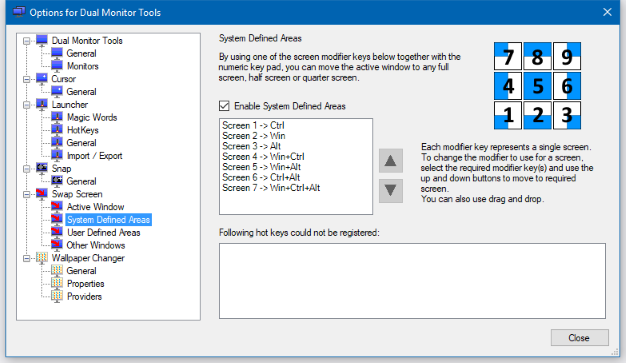
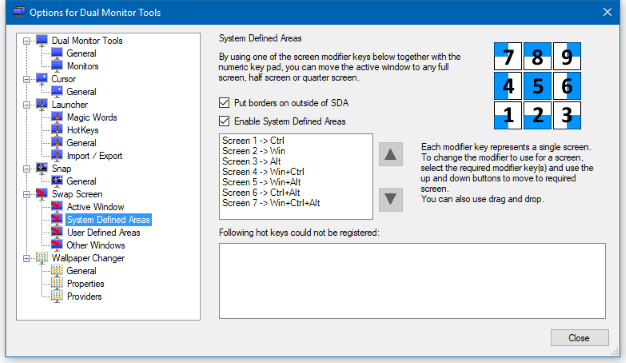
Changes ready for release of 2.7
git-svn-id: svn://svn.code.sf.net/p/dualmonitortool/code/trunk@470 fb2ba5e6-08d8-4d4c-bdde-3d14dca355d2

Changed region(s): [[0.3339, 0.2727, 0.6677, 0.6061]]

diff --git a/Web/dmt_wallpaperchanger.html b/Web/dmt_wallpaperchanger.html
@@ -79,16 +79,7 @@
 </ul>
 
 <p>If the image size is not the same size as the rectangle enclosing all of the selected screens, 
-then the 'Fit' combo box determines any scaling that need to be applied to the image.  The available options are:</p>
-<ul>
-	<li>Over stretch to cover the monitor(s). This is normally the best option.</li>
-	<li>Under stretch so as not to clip image.  This will result in bars being added.</li>
-	<li>Center image without any stretching.  
-	If your image is larger than the selected monitors, then the image will be clipped.
-	If The image is smaller than the selected monitors, then a border will be displayed around the image.</li>
-	<li>Stretch image to fill monitor(s) - ignores aspect ratio. 
-	This will stretch or shrink so that the whole image is displayed occupying the whole area of the selected monitors.</li>
-</ul>
+then the 'Fit' check boxes determines any scaling that need to be applied to the image.</p>
 
 <p>Initially no providers (of images) are set up, so click on the 'Providers' options to add/edit/delete providers.</p>
 
@@ -146,7 +137,7 @@ When you have the key, you can select flickr as a provider from DMT's list of pr
 		<div id="footer-left">
 		</div>
 		<div id="footer-right">
-		last updated 30 Dec 2016
+		last updated 4 Jun 2018
 		</div>
 	</div>
 </div>

diff --git a/Web/dmt_swapscreen.html b/Web/dmt_swapscreen.html
@@ -143,6 +143,8 @@ In addition &lt;Num 0&gt; when used with modifier keys for the first screen, wil
 
 <p>It is possible that Some key combinations may not be available, either because they are in use by other applications or by DMT itself for other functions.  If there are any that are not available, then they will reported in the area at the bottom of the screen.  If this happens, you can just try different modifier keys. </p>
 
+<p>Recent versions of Windows have featured transparent borders.  With these, it is worthwhile selecting the 'Put borders on outside of SDA' as this will prevent the transparent borders from taking up screen space.</p>
+
 <p class="SubHeading">'User Defined Areas' options</p>
 
 <img src="Images/dmt_swapscreen_uda.png" alt="Active to UDA Window" />
@@ -202,7 +204,7 @@ to restore normal operation of the game, and in others it can mess the current g
 		<div id="footer-left">
 		</div>
 		<div id="footer-right">
-		last updated 22 Jul 2017
+		last updated 4 Jun 2018
 		</div>
 	</div>
 </div>

diff --git a/Web/history.html b/Web/history.html
@@ -56,6 +56,17 @@
 <div id="content">
 
 
+<p class="SubHeading">5 Jun 2018 - release 2.7</p>
+
+<p><b>DMT</b></p>
+<ul>
+	<li>Wallpaper changer image fill method is more configurable.</li>
+	<li>Wallpaper changer properties show a few more details.</li>
+	<li>Wallpaper changer updated for change to Unsplash website.</li>
+	<li>Wallpaper changer can now enable/disable providers from grid.</li>
+	<li>SwapScreen SDA option to put (transparent) border on outside of SDA.</li>
+</ul>
+
 <p class="SubHeading">22 Jul 2017 - release 2.6</p>
 
 <p><b>DMT</b></p>
@@ -375,7 +386,7 @@ DisMon has been dropped for the time being.</p>
 		<div id="footer-left">
 		</div>
 		<div id="footer-right">
-		last updated 22 Jul 2017
+		last updated 4 Jun 2018
 		</div>
 	</div>
 </div>

diff --git a/Web/index.html b/Web/index.html
@@ -61,7 +61,7 @@
 
 
 <p class="SubHeading">Current status</p>
-<p>The latest release of Dual Monitor Tools is 2.6 and is available for downloading from
+<p>The latest release of Dual Monitor Tools is 2.7 and is available for downloading from
 <a href="http://sourceforge.net/project/platformdownload.php?group_id=252267">SourceForge</a>.</p>
 
 <p>The tools/modules currently available are:</p>
@@ -173,7 +173,7 @@ or if you have enough monitors, a combination of these.</p>
 		<div id="footer-left">
 		</div>
 		<div id="footer-right">
-		last updated 8 Jul 2017
+		last updated 4 Jun 2018
 		</div>
 	</div>
 </div>

diff --git a/DMT/DMT/Properties/AssemblyInfo.cs b/DMT/DMT/Properties/AssemblyInfo.cs
@@ -10,7 +10,7 @@ using System.Runtime.InteropServices;
 [assembly: AssemblyConfiguration("")]
 [assembly: AssemblyCompany("GNE")]
 [assembly: AssemblyProduct("Dual Monitor Tools")]
-[assembly: AssemblyCopyright("Copyright © 2009-2017 Gerald Evans")]
+[assembly: AssemblyCopyright("Copyright © 2009-2018 Gerald Evans")]
 [assembly: AssemblyTrademark("")]
 [assembly: AssemblyCulture("")]
 
@@ -32,5 +32,5 @@ using System.Runtime.InteropServices;
 // You can specify all the values or you can default the Build and Revision Numbers 
 // by using the '*' as shown below:
 // [assembly: AssemblyVersion("1.0.*")]
-[assembly: AssemblyVersion("2.6.0.0")]
-[assembly: AssemblyFileVersion("2.6.0.0")]
+[assembly: AssemblyVersion("2.7.0.0")]
+[assembly: AssemblyFileVersion("2.7.0.0")]

diff --git a/DmtWallpaper/DmtWallpaper/Properties/AssemblyInfo.cs b/DmtWallpaper/DmtWallpaper/Properties/AssemblyInfo.cs
@@ -10,7 +10,7 @@ using System.Runtime.InteropServices;
 [assembly: AssemblyConfiguration("")]
 [assembly: AssemblyCompany("GNE")]
 [assembly: AssemblyProduct("FMT Wallpaper")]
-[assembly: AssemblyCopyright("Copyright ©  2016-2017 Gerald Evans")]
+[assembly: AssemblyCopyright("Copyright ©  2016-2018 Gerald Evans")]
 [assembly: AssemblyTrademark("")]
 [assembly: AssemblyCulture("")]
 
@@ -32,5 +32,5 @@ using System.Runtime.InteropServices;
 // You can specify all the values or you can default the Build and Revision Numbers 
 // by using the '*' as shown below:
 // [assembly: AssemblyVersion("1.0.*")]
-[assembly: AssemblyVersion("2.6.0.0")]
-[assembly: AssemblyFileVersion("2.6.0.0")]
+[assembly: AssemblyVersion("2.7.0.0")]
+[assembly: AssemblyFileVersion("2.7.0.0")]

diff --git a/DualWallpaper/DualWallpaper/Properties/AssemblyInfo.cs b/DualWallpaper/DualWallpaper/Properties/AssemblyInfo.cs
@@ -10,7 +10,7 @@ using System.Runtime.InteropServices;
 [assembly: AssemblyConfiguration("")]
 [assembly: AssemblyCompany("GNE")]
 [assembly: AssemblyProduct("DualWallpaper")]
-[assembly: AssemblyCopyright("Copyright © 2010-2017 Gerald Evans and contributors")]
+[assembly: AssemblyCopyright("Copyright © 2010-2018 Gerald Evans and contributors")]
 [assembly: AssemblyTrademark("")]
 [assembly: AssemblyCulture("")]
 
@@ -29,5 +29,5 @@ using System.Runtime.InteropServices;
 //      Build Number
 //      Revision
 //
-[assembly: AssemblyVersion("2.6.0.0")]
-[assembly: AssemblyFileVersion("2.6.0.0")]
+[assembly: AssemblyVersion("2.7.0.0")]
+[assembly: AssemblyFileVersion("2.7.0.0")]
